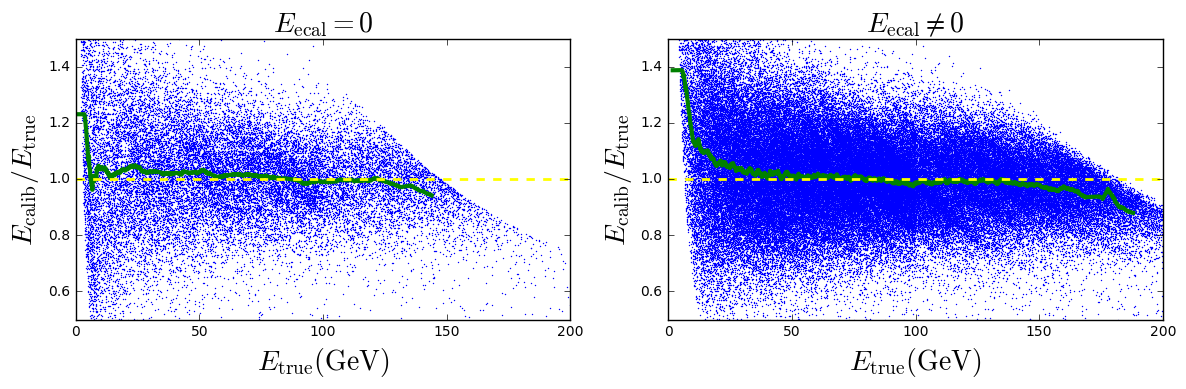
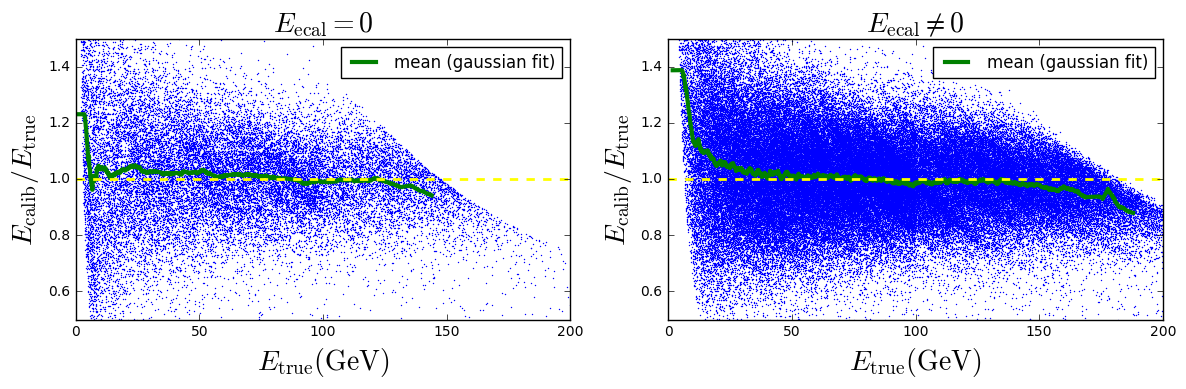
correction for plots

Changed region(s): [[0.7799, 0.0925, 0.9671, 0.2159], [0.2808, 0.0925, 0.468, 0.2159]]

diff --git a/test_KNNGF.py b/test_KNNGF.py
@@ -121,7 +121,7 @@ x = x[np.array(KNNGF.evaluatedPoint_hcal)+np.array(KNNGF.evaluatedPoint_ecal) < 
 fig = plt.figure(figsize=(7,6))
 plt.subplot(2,2,1)
 plt.plot(hcal_ecal_eq_0,KNNGF.evaluatedPoint_reducedchi2_ecal_eq_0)
-plt.xlabel(r"$E_{\rm hcal} \rm{(GeV)$",fontsize=18)
+plt.xlabel(r"$E_{\rm hcal} \rm{(GeV)}$",fontsize=18)
 plt.ylabel(r"$\chi^2/df$",fontsize=18)
 plt.title(r"$\chi^2/df$ for $E_{\rm ecal} = 0$",fontsize=18)
 plt.subplot(2,2,2)
@@ -138,8 +138,8 @@ vmax = 1.5
 im = plt.imshow(rrchi2_ecal_neq_0,cmap=plt.cm.seismic, extent=(xmin,xmax,ymin,ymax), origin='lower',vmin=vmin,vmax=vmax,interpolation='bilinear')
 plt.colorbar(im)
 plt.title(r"$\chi^2/df$ for $E_{\rm ecal} \neq 0$",fontsize=18)
-plt.ylabel(r"$E_{\rm hcal} \rm{(GeV)$",fontsize=18)
-plt.xlabel(r"$E_{\rm ecal} \rm{(GeV)$",fontsize=18)
+plt.ylabel(r"$E_{\rm hcal} \rm{(GeV)}$",fontsize=18)
+plt.xlabel(r"$E_{\rm ecal} \rm{(GeV)}$",fontsize=18)
 plt.subplot(2,2,4)
 plt.hist(x,binwidth_array(x))
 plt.xlabel(r"$\chi^2/df$",fontsize=18)
@@ -172,14 +172,14 @@ plt.subplot(1,2,1)
 plt.errorbar(bin_middles1, entries1, yerr=error1, fmt='o')
 xplot = np.arange(min(bin_middles1),max(bin_middles1),1)
 plt.plot(xplot,gaussian_param(xplot,*params1),lw=3)
-plt.xlabel(r"$E_{\rm true} \rm{(GeV)$",fontsize=18)
-plt.title(r"histogram of $E_{true}$ for $(E_{ecal}="+str(np.around(e1,2))+" \rm{(GeV),E_{hcal}="+str(np.around(h1,2))+" \rm{(GeV))$",fontsize=18)
+plt.xlabel(r"$E_{\rm true} \rm{(GeV)}$",fontsize=18)
+plt.title(r"histogram of $E_{true}$ for $(E_{ecal}="+str(np.around(e1,2))+",E_{hcal}="+str(np.around(h1,2))+")$",fontsize=18)
 plt.subplot(1,2,2)
 plt.errorbar(bin_middles2, entries2, yerr=error2, fmt='o')
 plt.plot(xplot,gaussian_param(xplot,*params2),lw=3)
 xplot = np.arange(min(bin_middles2),max(bin_middles2),1)
-plt.xlabel(r"$E_{\rm true} \rm{(GeV)$",fontsize=18)
-plt.title(r"histogram of $E_{true}$ for $(E_{ecal}="+str(np.around(e2,2))+" \rm{(GeV),E_{hcal}="+str(np.around(h2,2))+" \rm{(GeV))$",fontsize=18)
+plt.xlabel(r"$E_{\rm true}$",fontsize=18)
+plt.title(r"histogram of $E_{true}$ for $(E_{ecal}="+str(np.around(e2,2))+",E_{hcal}="+str(np.around(h2,2))+")$",fontsize=18)
 plt.tight_layout()
 plt.show()
 savefig(fig,directory,classname+"_hist_calib.png")
@@ -191,7 +191,7 @@ xplot = np.arange(min(bin_middles1),max(bin_middles1),1)
 plt.plot(xplot,gaussian_param(xplot,*params1),lw=3)
 plt.plot([params1[1],params1[1]],[0,max(entries1)],'--',lw=2,label="gaussian fit mean "+str(np.around(params1[1],2)))
 plt.plot([m1,m1],[0,max(entries1)],'--',lw=2,label = "classical mean "+str(np.around(m1,2)))
-plt.xlabel(r"$E_{\rm true} \rm{(GeV)$",fontsize=18)
+plt.xlabel(r"$E_{\rm true} \rm{(GeV)}$",fontsize=18)
 plt.ylabel(r"frequence",fontsize=18)
 plt.title(r"Neighbors of $(E_{ecal}="+str(np.around(e1,2))+",E_{hcal}="+str(np.around(h1,2))+")$",fontsize=18)
 plt.legend(loc="upper right",fontsize=9)
@@ -212,8 +212,8 @@ hcal_train = KNNGF.hcal_train[KNNGF.ecal_train == 0]
 true_train = KNNGF.true_train[KNNGF.ecal_train == 0]
 plt.subplot(1,2,1)
 plt.plot(hcal_train,true_train,'.',markersize=1)
-plt.xlabel(r"$E_{\rm hcal} \rm{(GeV)$",fontsize=20)
-plt.ylabel(r"$E_{\rm true} \rm{(GeV)$",fontsize=20)
+plt.xlabel(r"$E_{\rm hcal} \rm{(GeV)}$",fontsize=20)
+plt.ylabel(r"$E_{\rm true} \rm{(GeV)}$",fontsize=20)
 for i in np.arange(len(neigh_hcal_ecal_eq_0)):
     plt.plot(neigh_hcal_ecal_eq_0[i],neigh_true_ecal_eq_0[i],'.',color='red',markersize=1)
 plt.title(r"neighbors for $E_{\rm ecal} = 0$",fontsize=18)
@@ -226,8 +226,8 @@ neigh_ecal_ecal_neq_0 = neigh_ecal_ecal_neq_0[np.array(KNNGF.evaluatedPoint_ecal
 neigh_hcal_ecal_neq_0 = np.array(KNNGF.evaluatedPoint_neighbours_hcal)
 neigh_hcal_ecal_neq_0 = neigh_hcal_ecal_neq_0[np.array(KNNGF.evaluatedPoint_ecal)+np.array(KNNGF.evaluatedPoint_hcal)<lim]
 plt.subplot(1,2,2)
-plt.xlabel(r"$E_{\rm ecal} \rm{(GeV)$",fontsize=20)
-plt.ylabel(r"$E_{\rm hcal} \rm{(GeV)$",fontsize=20)
+plt.xlabel(r"$E_{\rm ecal} \rm{(GeV)}$",fontsize=20)
+plt.ylabel(r"$E_{\rm hcal} \rm{(GeV)}$",fontsize=20)
 for i in np.arange(len(neigh_hcal_ecal_neq_0)):
     plt.plot(neigh_ecal_ecal_neq_0[i],neigh_hcal_ecal_neq_0[i],'.',markersize=1)
 plt.title(r"neighbors for $E_{\rm ecal} \neq 0$",fontsize=18)

diff --git a/test_KNNGC.py b/test_KNNGC.py
@@ -118,7 +118,7 @@ x = x[np.array(KNNGC.evaluatedPoint_hcal)+np.array(KNNGC.evaluatedPoint_ecal) < 
 fig = plt.figure(figsize=(7,6))
 plt.subplot(2,2,1)
 plt.plot(hcal_ecal_eq_0,KNNGC.evaluatedPoint_reducedchi2_ecal_eq_0)
-plt.xlabel(r"$E_{\rm hcal} \rm{(GeV)$",fontsize=18)
+plt.xlabel(r"$E_{\rm hcal} \rm{(GeV)}$",fontsize=18)
 plt.ylabel(r"$\chi^2/df$",fontsize=18)
 plt.title(r"$\chi^2/df$ for $E_{\rm ecal} = 0$",fontsize=18)
 plt.subplot(2,2,2)
@@ -135,8 +135,8 @@ vmax = 1.5
 im = plt.imshow(rrchi2_ecal_neq_0,cmap=plt.cm.seismic, extent=(xmin,xmax,ymin,ymax), origin='lower',vmin=vmin,vmax=vmax,interpolation='bilinear')
 plt.colorbar(im)
 plt.title(r"$\chi^2/df$ for $E_{\rm ecal} \neq 0$",fontsize=18)
-plt.ylabel(r"$E_{\rm hcal} \rm{(GeV)$",fontsize=18)
-plt.xlabel(r"$E_{\rm ecal} \rm{(GeV)$",fontsize=18)
+plt.ylabel(r"$E_{\rm hcal} \rm{(GeV)}$",fontsize=18)
+plt.xlabel(r"$E_{\rm ecal} \rm{(GeV)}$",fontsize=18)
 plt.subplot(2,2,4)
 plt.hist(x,binwidth_array(x))
 plt.xlabel(r"$\chi^2/df$",fontsize=18)
@@ -169,14 +169,14 @@ plt.subplot(1,2,1)
 plt.errorbar(bin_middles1, entries1, yerr=error1, fmt='o')
 xplot = np.arange(min(bin_middles1),max(bin_middles1),1)
 plt.plot(xplot,gaussian_param(xplot,*params1),lw=3)
-plt.xlabel(r"$E_{\rm true} \rm{(GeV)$",fontsize=18)
-plt.title(r"histogram of $E_{true}$ for $(E_{ecal}="+str(np.around(e1,2))+" \rm{(GeV),E_{hcal}="+str(np.around(h1,2))+" \rm{(GeV))$",fontsize=18)
+plt.xlabel(r"$E_{\rm true} \rm{(GeV)}$",fontsize=18)
+plt.title(r"histogram of $E_{true}$ for $(E_{ecal}="+str(np.around(e1,2))+",E_{hcal}="+str(np.around(h1,2))+")$",fontsize=18)
 plt.subplot(1,2,2)
 plt.errorbar(bin_middles2, entries2, yerr=error2, fmt='o')
 plt.plot(xplot,gaussian_param(xplot,*params2),lw=3)
 xplot = np.arange(min(bin_middles2),max(bin_middles2),1)
-plt.xlabel(r"$E_{\rm true} \rm{(GeV)$",fontsize=18)
-plt.title(r"histogram of $E_{true}$ for $(E_{ecal}="+str(np.around(e2,2))+", \rm{(GeV)E_{hcal}="+str(np.around(h2,2))+" \rm{(GeV))$",fontsize=18)
+plt.xlabel(r"$E_{\rm true} \rm{(GeV)}$",fontsize=18)
+plt.title(r"histogram of $E_{true}$ for $(E_{ecal}="+str(np.around(e2,2))+",E_{hcal}="+str(np.around(h2,2))+")$",fontsize=18)
 plt.tight_layout()
 plt.show()
 savefig(fig,directory,classname+"_hist_calib.png")

diff --git a/pfcalibration/usualplots.py b/pfcalibration/usualplots.py
@@ -126,7 +126,8 @@ def plot_ecalib_over_etrue_functionof_etrue(calib,dataToPredict):
     plt.subplot(1,2,1)
     plt.plot(t,r,'.',markersize=1)
     plt.axis([0,200,0.5,1.5])
-    plt.plot(energy,mean_gaussianfit,lw=3)
+    plt.plot(energy,mean_gaussianfit,lw=3,label="mean (gaussian fit)")
+    plt.legend(loc='upper right')
     plt.plot([0,200],[1,1],'--',lw = 2,color='yellow')
     plt.xlabel(r"$E_{\rm true} \rm{(GeV)}$",fontsize=20)
     plt.ylabel(r"$E_{\rm calib}/E_{\rm true}$",fontsize=20)
@@ -134,7 +135,8 @@ def plot_ecalib_over_etrue_functionof_etrue(calib,dataToPredict):
     plt.subplot(1,2,2)
     plt.plot(t2,r2,'.',markersize=1)
     plt.axis([0,200,0.5,1.5])
-    plt.plot(energy2,mean_gaussianfit2,lw=3)
+    plt.plot(energy2,mean_gaussianfit2,lw=3,label="mean (gaussian fit)")
+    plt.legend(loc='upper right')
     plt.plot([0,200],[1,1],'--',lw = 2,color='yellow')
     plt.xlabel(r"$E_{\rm true} \rm{(GeV)}$",fontsize=20)
     plt.ylabel(r"$E_{\rm calib}/E_{\rm true}$",fontsize=20)
@@ -165,7 +167,6 @@ def plot_ecalib_over_etrue_functionof_ecal_hcal(calib,dataToPredict):
     plt.axis([0,calib.lim,0.5,1.5])
     energy_ecal_eq_0, means_ecal_eq_0, mean_gaussianfit_ecal_eq_0, sigma_gaussianfit_ecal_eq_0, reducedChi2_ecal_eq_0 = getMeans(h,r)
     plt.plot(energy_ecal_eq_0,mean_gaussianfit_ecal_eq_0,lw=3,label="mean (gaussian fit)")
-    plt.plot(energy_ecal_eq_0,means_ecal_eq_0,lw=3,label="mean")
     plt.legend(loc='upper right')
     plt.subplot(1,2,2)
     Z_mean, Z_sigma = getMeans2D(e2,h2,r2,calib.lim)
